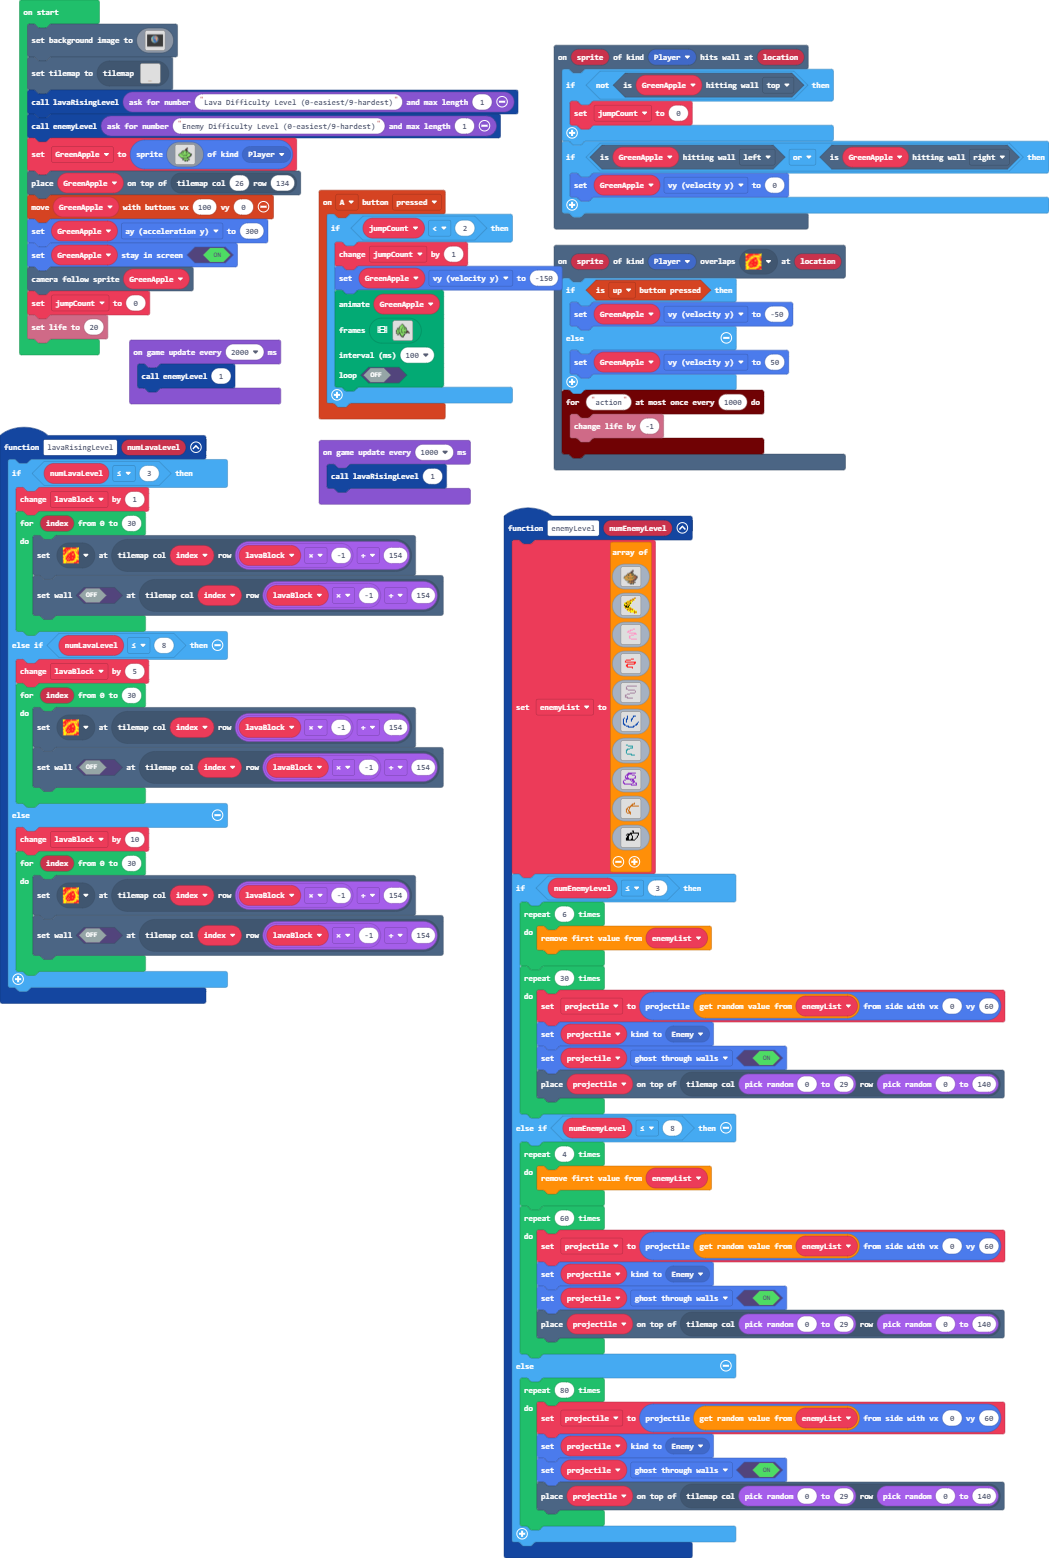
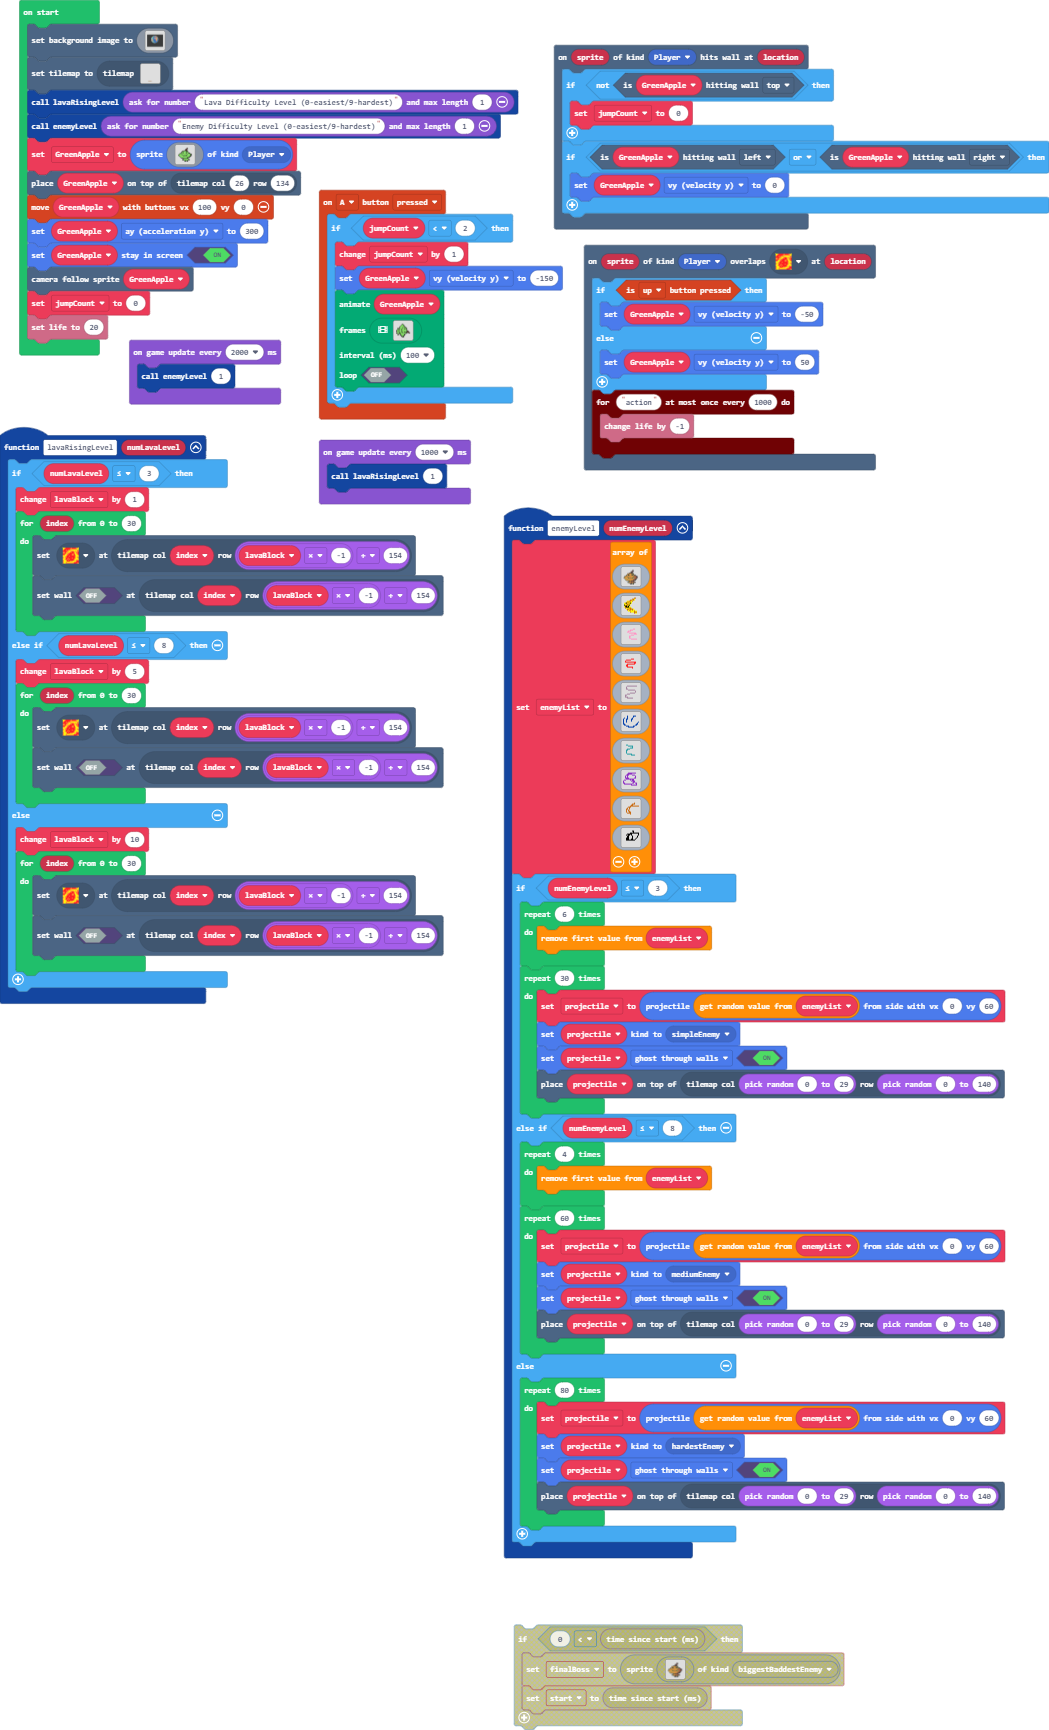
enemy boss and life changes

diff --git a/main.ts b/main.ts
@@ -1,3 +1,9 @@
+namespace SpriteKind {
+    export const simpleEnemy = SpriteKind.create()
+    export const mediumEnemy = SpriteKind.create()
+    export const hardestEnemy = SpriteKind.create()
+    export const biggestBaddestEnemy = SpriteKind.create()
+}
 function enemyLevel (numEnemyLevel: number) {
     enemyList = [
     assets.image`archnemesis`,
@@ -153,7 +159,7 @@ function enemyLevel (numEnemyLevel: number) {
         }
         for (let index = 0; index < 30; index++) {
             projectile = sprites.createProjectileFromSide(enemyList._pickRandom(), 0, 60)
-            projectile.setKind(SpriteKind.Enemy)
+            projectile.setKind(SpriteKind.simpleEnemy)
             projectile.setFlag(SpriteFlag.GhostThroughWalls, true)
             tiles.placeOnTile(projectile, tiles.getTileLocation(randint(0, 29), randint(0, 140)))
         }
@@ -163,14 +169,14 @@ function enemyLevel (numEnemyLevel: number) {
         }
         for (let index = 0; index < 60; index++) {
             projectile = sprites.createProjectileFromSide(enemyList._pickRandom(), 0, 60)
-            projectile.setKind(SpriteKind.Enemy)
+            projectile.setKind(SpriteKind.mediumEnemy)
             projectile.setFlag(SpriteFlag.GhostThroughWalls, true)
             tiles.placeOnTile(projectile, tiles.getTileLocation(randint(0, 29), randint(0, 140)))
         }
     } else {
         for (let index = 0; index < 80; index++) {
             projectile = sprites.createProjectileFromSide(enemyList._pickRandom(), 0, 60)
-            projectile.setKind(SpriteKind.Enemy)
+            projectile.setKind(SpriteKind.hardestEnemy)
             projectile.setFlag(SpriteFlag.GhostThroughWalls, true)
             tiles.placeOnTile(projectile, tiles.getTileLocation(randint(0, 29), randint(0, 140)))
         }
